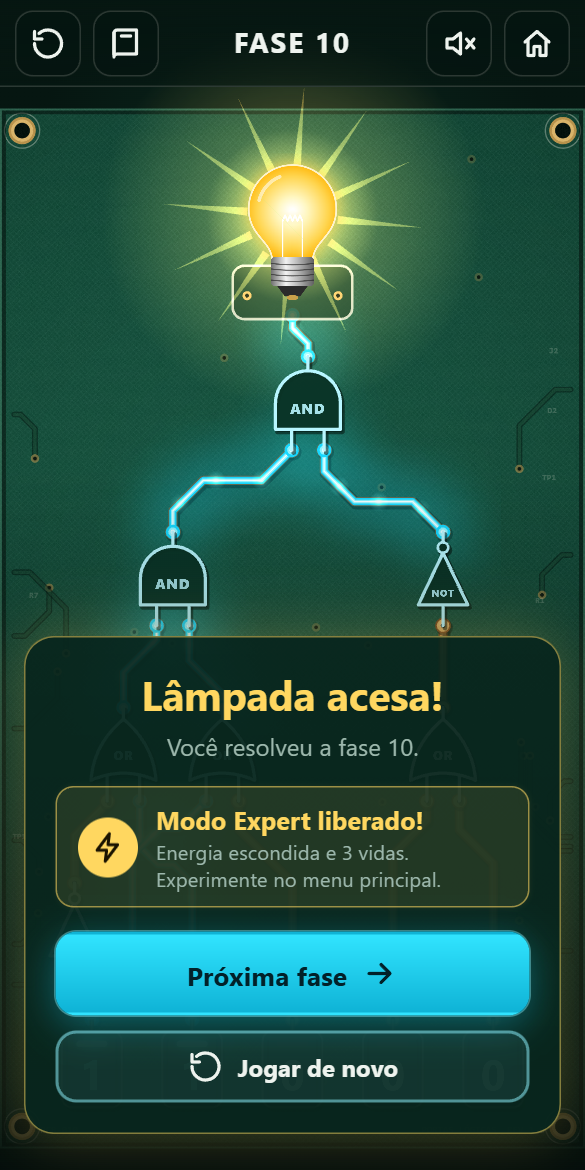
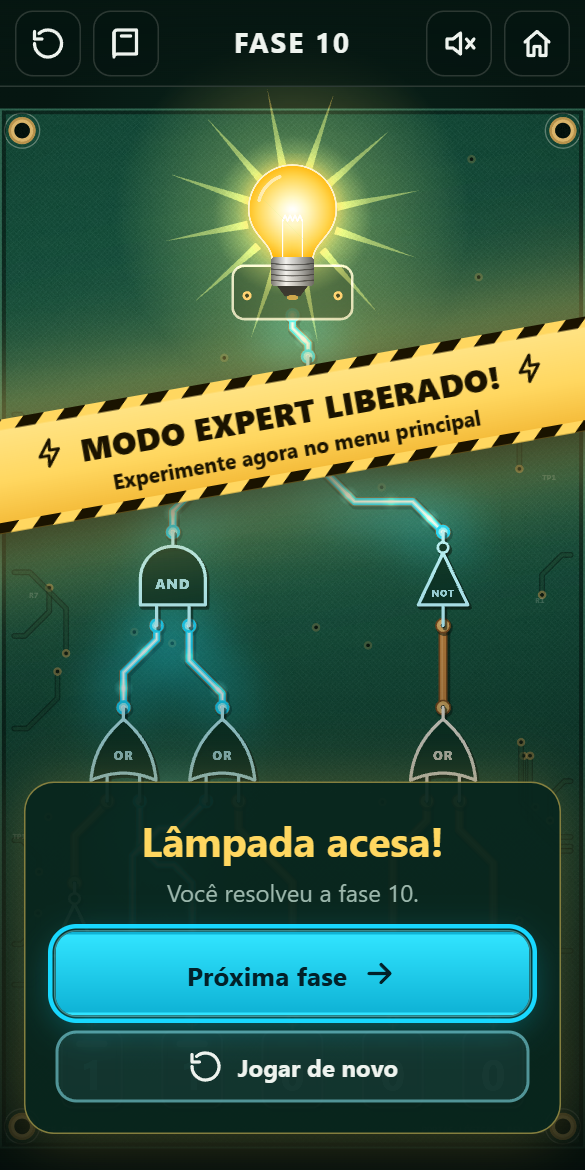
Troca o aviso discreto por uma faixa diagonal ao liberar o modo Expert
Ao vencer a fase 10 pela primeira vez, uma faixa amarela e preta atravessa
a placa na diagonal com "Modo Expert liberado!", acima do cartão de vitória.
O texto se ajusta à largura da placa e a faixa não bloqueia cliques.

diff --git a/src/ui/styles.css b/src/ui/styles.css
@@ -442,41 +442,63 @@ h1, h2 { margin: 0; }
 .victory-card p { margin: 6px 0 16px; color: var(--muted); }
 .victory-actions { display: grid; gap: 10px; }
 
-/* Aviso de modo Expert liberado, dentro do cartão de vitória. */
-.unlock-banner {
-  position: relative;
-  display: flex;
-  align-items: center;
-  gap: 12px;
-  margin: 0 0 16px;
-  padding: 10px 14px;
-  border-radius: 12px;
-  text-align: left;
+/* Faixa diagonal de modo Expert liberado, sobre a placa e atrás do cartão de vitória. */
+.victory-card { position: relative; z-index: 1; }
+.unlock-ribbon-wrap {
+  position: absolute;
+  inset: 0 auto 0 50%;
+  width: min(100%, var(--hud-w, 100%));
+  transform: translateX(-50%);
   overflow: hidden;
-  background: rgba(255, 215, 96, 0.1);
-  border: 1px solid rgba(255, 215, 96, 0.55);
-  animation: unlock-pop 0.6s 0.25s cubic-bezier(0.2, 1.4, 0.4, 1) both, unlock-glow 1.6s 0.85s ease-in-out 2;
+  pointer-events: none;
+  container-type: inline-size;
 }
-.unlock-banner::after {
+.unlock-ribbon {
+  position: absolute;
+  top: 26%;
+  left: -30%;
+  width: 160%;
+  display: grid;
+  justify-items: center;
+  gap: 2px;
+  padding: 14px 0 12px;
+  color: #1a1300;
+  text-align: center;
+  background:
+    repeating-linear-gradient(-45deg, #1a1300 0 10px, var(--warm) 10px 20px) top / 100% 7px no-repeat,
+    repeating-linear-gradient(-45deg, #1a1300 0 10px, var(--warm) 10px 20px) bottom / 100% 7px no-repeat,
+    linear-gradient(180deg, #ffe58a, var(--warm) 55%, #f2b632);
+  box-shadow: 0 10px 30px rgba(0, 0, 0, 0.55), 0 0 50px rgba(255, 215, 96, 0.45);
+  transform: rotate(-10deg);
+  animation: ribbon-in 0.7s 0.15s cubic-bezier(0.2, 1.3, 0.4, 1) both, ribbon-pulse 1.4s 1s ease-in-out infinite;
+}
+.unlock-ribbon::after {
   content: '';
   position: absolute;
   inset: 0;
-  background: linear-gradient(100deg, transparent 30%, rgba(255, 240, 190, 0.35) 50%, transparent 70%);
+  background: linear-gradient(100deg, transparent 40%, rgba(255, 255, 255, 0.7) 50%, transparent 60%);
   transform: translateX(-100%);
-  animation: unlock-sweep 0.9s 0.8s ease-out both;
-  pointer-events: none;
+  animation: unlock-sweep 2.4s 0.9s ease-in-out infinite;
 }
-.unlock-icon { display: grid; place-items: center; width: 40px; height: 40px; flex: none; border-radius: 50%; color: #1a1300; background: var(--warm); animation: unlock-spin 0.6s 0.35s ease-out both; }
-.unlock-icon svg { width: 22px; height: 22px; }
-.unlock-text { display: grid; gap: 2px; }
-.unlock-text strong { color: var(--warm); font-size: 1.05rem; }
-.unlock-text small { color: var(--muted); font-size: 0.85rem; line-height: 1.3; }
-@keyframes unlock-pop { from { opacity: 0; transform: scale(0.6); } to { opacity: 1; transform: scale(1); } }
-@keyframes unlock-spin { from { transform: rotate(-180deg) scale(0); } to { transform: rotate(0) scale(1); } }
-@keyframes unlock-sweep { to { transform: translateX(100%); } }
-@keyframes unlock-glow { 50% { box-shadow: 0 0 24px rgba(255, 215, 96, 0.55); } }
+.unlock-ribbon strong {
+  display: flex;
+  align-items: center;
+  gap: 10px;
+  font-size: clamp(1rem, 5.4cqi, 2rem);
+  font-weight: 900;
+  letter-spacing: 0.02em;
+  text-transform: uppercase;
+}
+.unlock-ribbon strong svg { width: 1em; height: 1em; }
+.unlock-ribbon small { font-size: clamp(0.75rem, 3.6cqi, 1rem); font-weight: 700; }
+@keyframes ribbon-in {
+  from { opacity: 0; transform: rotate(-10deg) translateX(-110%) scale(1.4); }
+  to { opacity: 1; transform: rotate(-10deg); }
+}
+@keyframes ribbon-pulse { 50% { box-shadow: 0 10px 30px rgba(0, 0, 0, 0.55), 0 0 80px rgba(255, 215, 96, 0.8); } }
+@keyframes unlock-sweep { 60%, 100% { transform: translateX(100%); } }
 @media (prefers-reduced-motion: reduce) {
-  .unlock-banner, .unlock-banner::after, .unlock-icon { animation: none; }
+  .unlock-ribbon, .unlock-ribbon::after { animation: none; }
 }
 
 /* ---------- Modo Expert ---------- */

diff --git a/src/ui/screens/GameScreen.ts b/src/ui/screens/GameScreen.ts
@@ -260,17 +260,21 @@ export class GameScreen implements Screen {
         ),
       ),
     );
-    if (this.expertUnlocked) this.victory.firstElementChild!.insertBefore(this.unlockBanner(), this.victory.querySelector('.victory-actions'));
+    if (this.expertUnlocked) this.victory.prepend(this.unlockRibbon());
     this.showCard();
   }
 
-  /** Aviso animado de que o modo Expert ficou disponível no menu. */
-  private unlockBanner(): HTMLElement {
+  /** Faixa diagonal sobre a placa anunciando que o modo Expert ficou disponível no menu. */
+  private unlockRibbon(): HTMLElement {
     return h(
       'div',
-      { class: 'unlock-banner', role: 'status', 'data-testid': 'expert-unlocked' },
-      h('span', { class: 'unlock-icon', html: ICONS.bolt }),
-      h('span', { class: 'unlock-text' }, h('strong', { text: t('expert.unlocked.title') }), h('small', { text: t('expert.unlocked.text') })),
+      { class: 'unlock-ribbon-wrap' },
+      h(
+        'div',
+        { class: 'unlock-ribbon', role: 'status', 'data-testid': 'expert-unlocked' },
+        h('strong', { html: `${ICONS.bolt} ${t('expert.unlocked.title')} ${ICONS.bolt}` }),
+        h('small', { text: t('expert.unlocked.text') }),
+      ),
     );
   }
 

diff --git a/README.md b/README.md
@@ -67,13 +67,13 @@ No modo normal, o aluno pode testar chaves até a lâmpada acender, vendo a ener
 
 | Aviso ao liberar o modo | Um palpite errado queima uma vida |
 |:---:|:---:|
-| <img src="docs/screenshots/expert-liberado.png" width="240" alt="Cartão de vitória da fase 10 com o aviso Modo Expert liberado"> | <img src="docs/screenshots/expert.png" width="240" alt="Fase 12 no modo Expert com uma das três lâmpadas de vida queimada"> |
+| <img src="docs/screenshots/expert-liberado.png" width="240" alt="Faixa diagonal Modo Expert liberado sobre a placa da fase 10"> | <img src="docs/screenshots/expert.png" width="240" alt="Fase 12 no modo Expert com uma das três lâmpadas de vida queimada"> |
 
 </div>
 
 ### Como liberar
 
-O modo Expert aparece no menu principal com um cadeado até o aluno **concluir a fase 10** do modo normal. Nesse ponto ele já conhece AND, OR e NOT. Ao vencer a fase 10 pela primeira vez, o cartão de vitória mostra um aviso animado de que o modo foi liberado.
+O modo Expert aparece no menu principal com um cadeado até o aluno **concluir a fase 10** do modo normal. Nesse ponto ele já conhece AND, OR e NOT. Ao vencer a fase 10 pela primeira vez, uma faixa amarela e preta atravessa a placa na diagonal anunciando "Modo Expert liberado!".
 
 ### Como se joga
 
